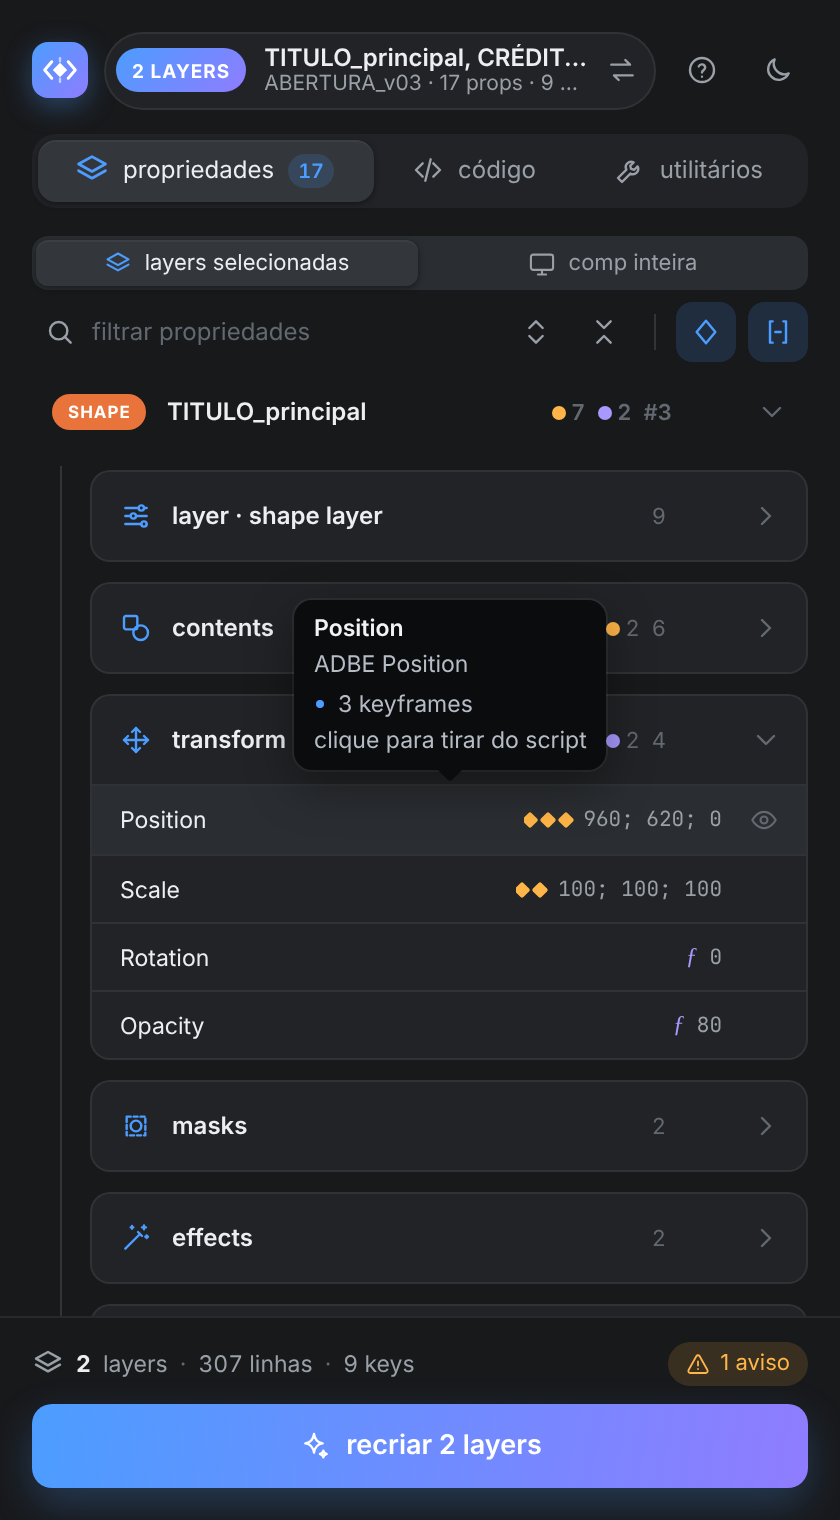
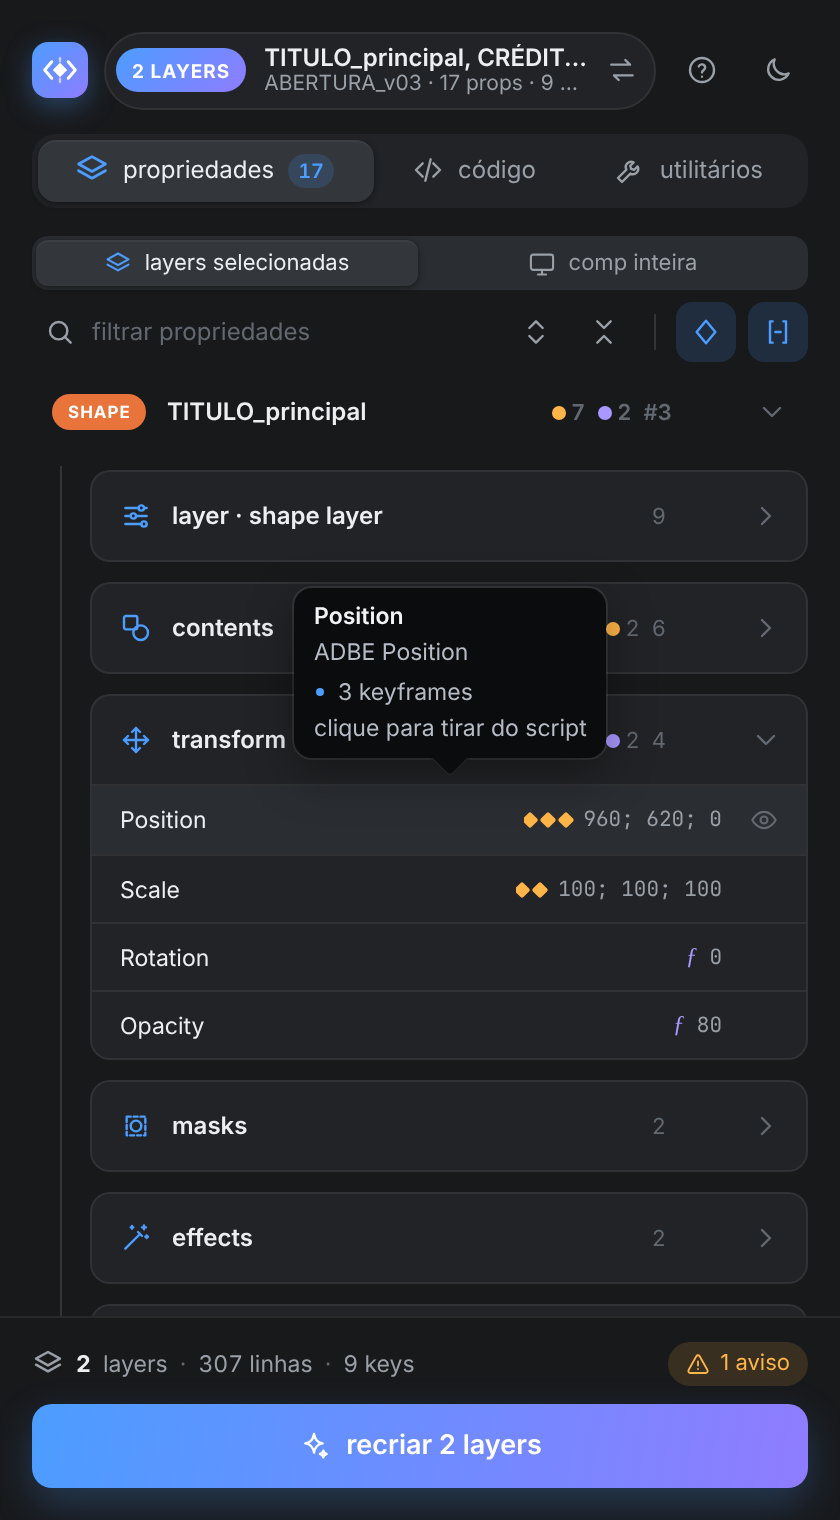
tooltips: ponta do balão visível
A ponta tinha o tamanho da do ABRIDOR, mas sumia sobre o fundo escuro
do painel: só ~4 px ficavam para fora e o contorno do balão não seguia
por ela. Agora a ponta é maior (14 px), cabe inteira no espaço entre o
balão e o elemento (14 px) e tem o mesmo contorno do balão nos dois
lados de fora.

Claude-Session: https://claude.ai/code/session_01DrYHfTKkWeHbJc9P6YMHdx

Changed region(s): [[0.3714, 0.402, 0.7119, 0.4947]]

diff --git a/bin-cep/css/style.css b/bin-cep/css/style.css
@@ -667,7 +667,7 @@ body.is-empty .sum { visibility: hidden; }
 	color: #f1f3f6;
 	font-size: 11.5px;
 	line-height: 1.35;
-	box-shadow: 0 8px 24px rgba(0, 0, 0, .35), 0 0 0 1px rgba(255, 255, 255, .06);
+	box-shadow: 0 8px 24px rgba(0, 0, 0, .35), 0 0 0 1px rgba(255, 255, 255, .09);
 	pointer-events: none;
 	opacity: 0;
 	transform: translateY(var(--from-y, 4px)) scale(.96);
@@ -698,16 +698,20 @@ body.is-empty .sum { visibility: hidden; }
 
 .tip-arrow {
 	position: absolute;
-	left: calc(var(--ax, 50%) - 5px);
-	width: 10px;
-	height: 10px;
+	left: calc(var(--ax, 50%) - 7px);
+	width: 14px;
+	height: 14px;
 	background: var(--tip-bg);
 	transform: rotate(45deg);
-	border-radius: 2px;
+	border-radius: 0 0 3px 0;
+	/* o mesmo contorno do balão, só nos dois lados de fora da ponta */
+	border: 1px solid transparent;
+	border-right-color: rgba(255, 255, 255, .09);
+	border-bottom-color: rgba(255, 255, 255, .09);
 }
 
-.tip.up .tip-arrow { bottom: -4px; }
-.tip.down .tip-arrow { top: -4px; }
+.tip.up .tip-arrow { bottom: -7px; }
+.tip.down .tip-arrow { top: -7px; transform: rotate(225deg); }
 
 @media (prefers-reduced-motion: reduce) {
 	*, *::before, *::after { animation: none !important; transition: none !important; }

diff --git a/bin-cep/js/ui.js b/bin-cep/js/ui.js
@@ -147,14 +147,14 @@
 			tip.style.left = '0px';
 			tip.style.top = '0px';
 			var w = tip.offsetWidth, h = tip.offsetHeight;
-			var gap = 8;
+			var gap = 14; // espaço para a ponta do balão inteira entre o balão e o elemento
 			var up = r.top - h - gap > 6 && !(r.top < vh * 0.28 && r.bottom + h + gap < vh - 6);
 			var top = up ? r.top - h - gap : r.bottom + gap;
 			var cx = r.left + r.width / 2;
 			var left = Math.max(6, Math.min(vw - w - 6, cx - w / 2));
 			tip.style.left = Math.round(left) + 'px';
 			tip.style.top = Math.round(Math.max(6, Math.min(vh - h - 6, top))) + 'px';
-			tip.style.setProperty('--ax', Math.round(Math.max(10, Math.min(w - 10, cx - left))) + 'px');
+			tip.style.setProperty('--ax', Math.round(Math.max(14, Math.min(w - 14, cx - left))) + 'px');
 			tip.classList.toggle('up', up);
 			tip.classList.toggle('down', !up);
 		}
